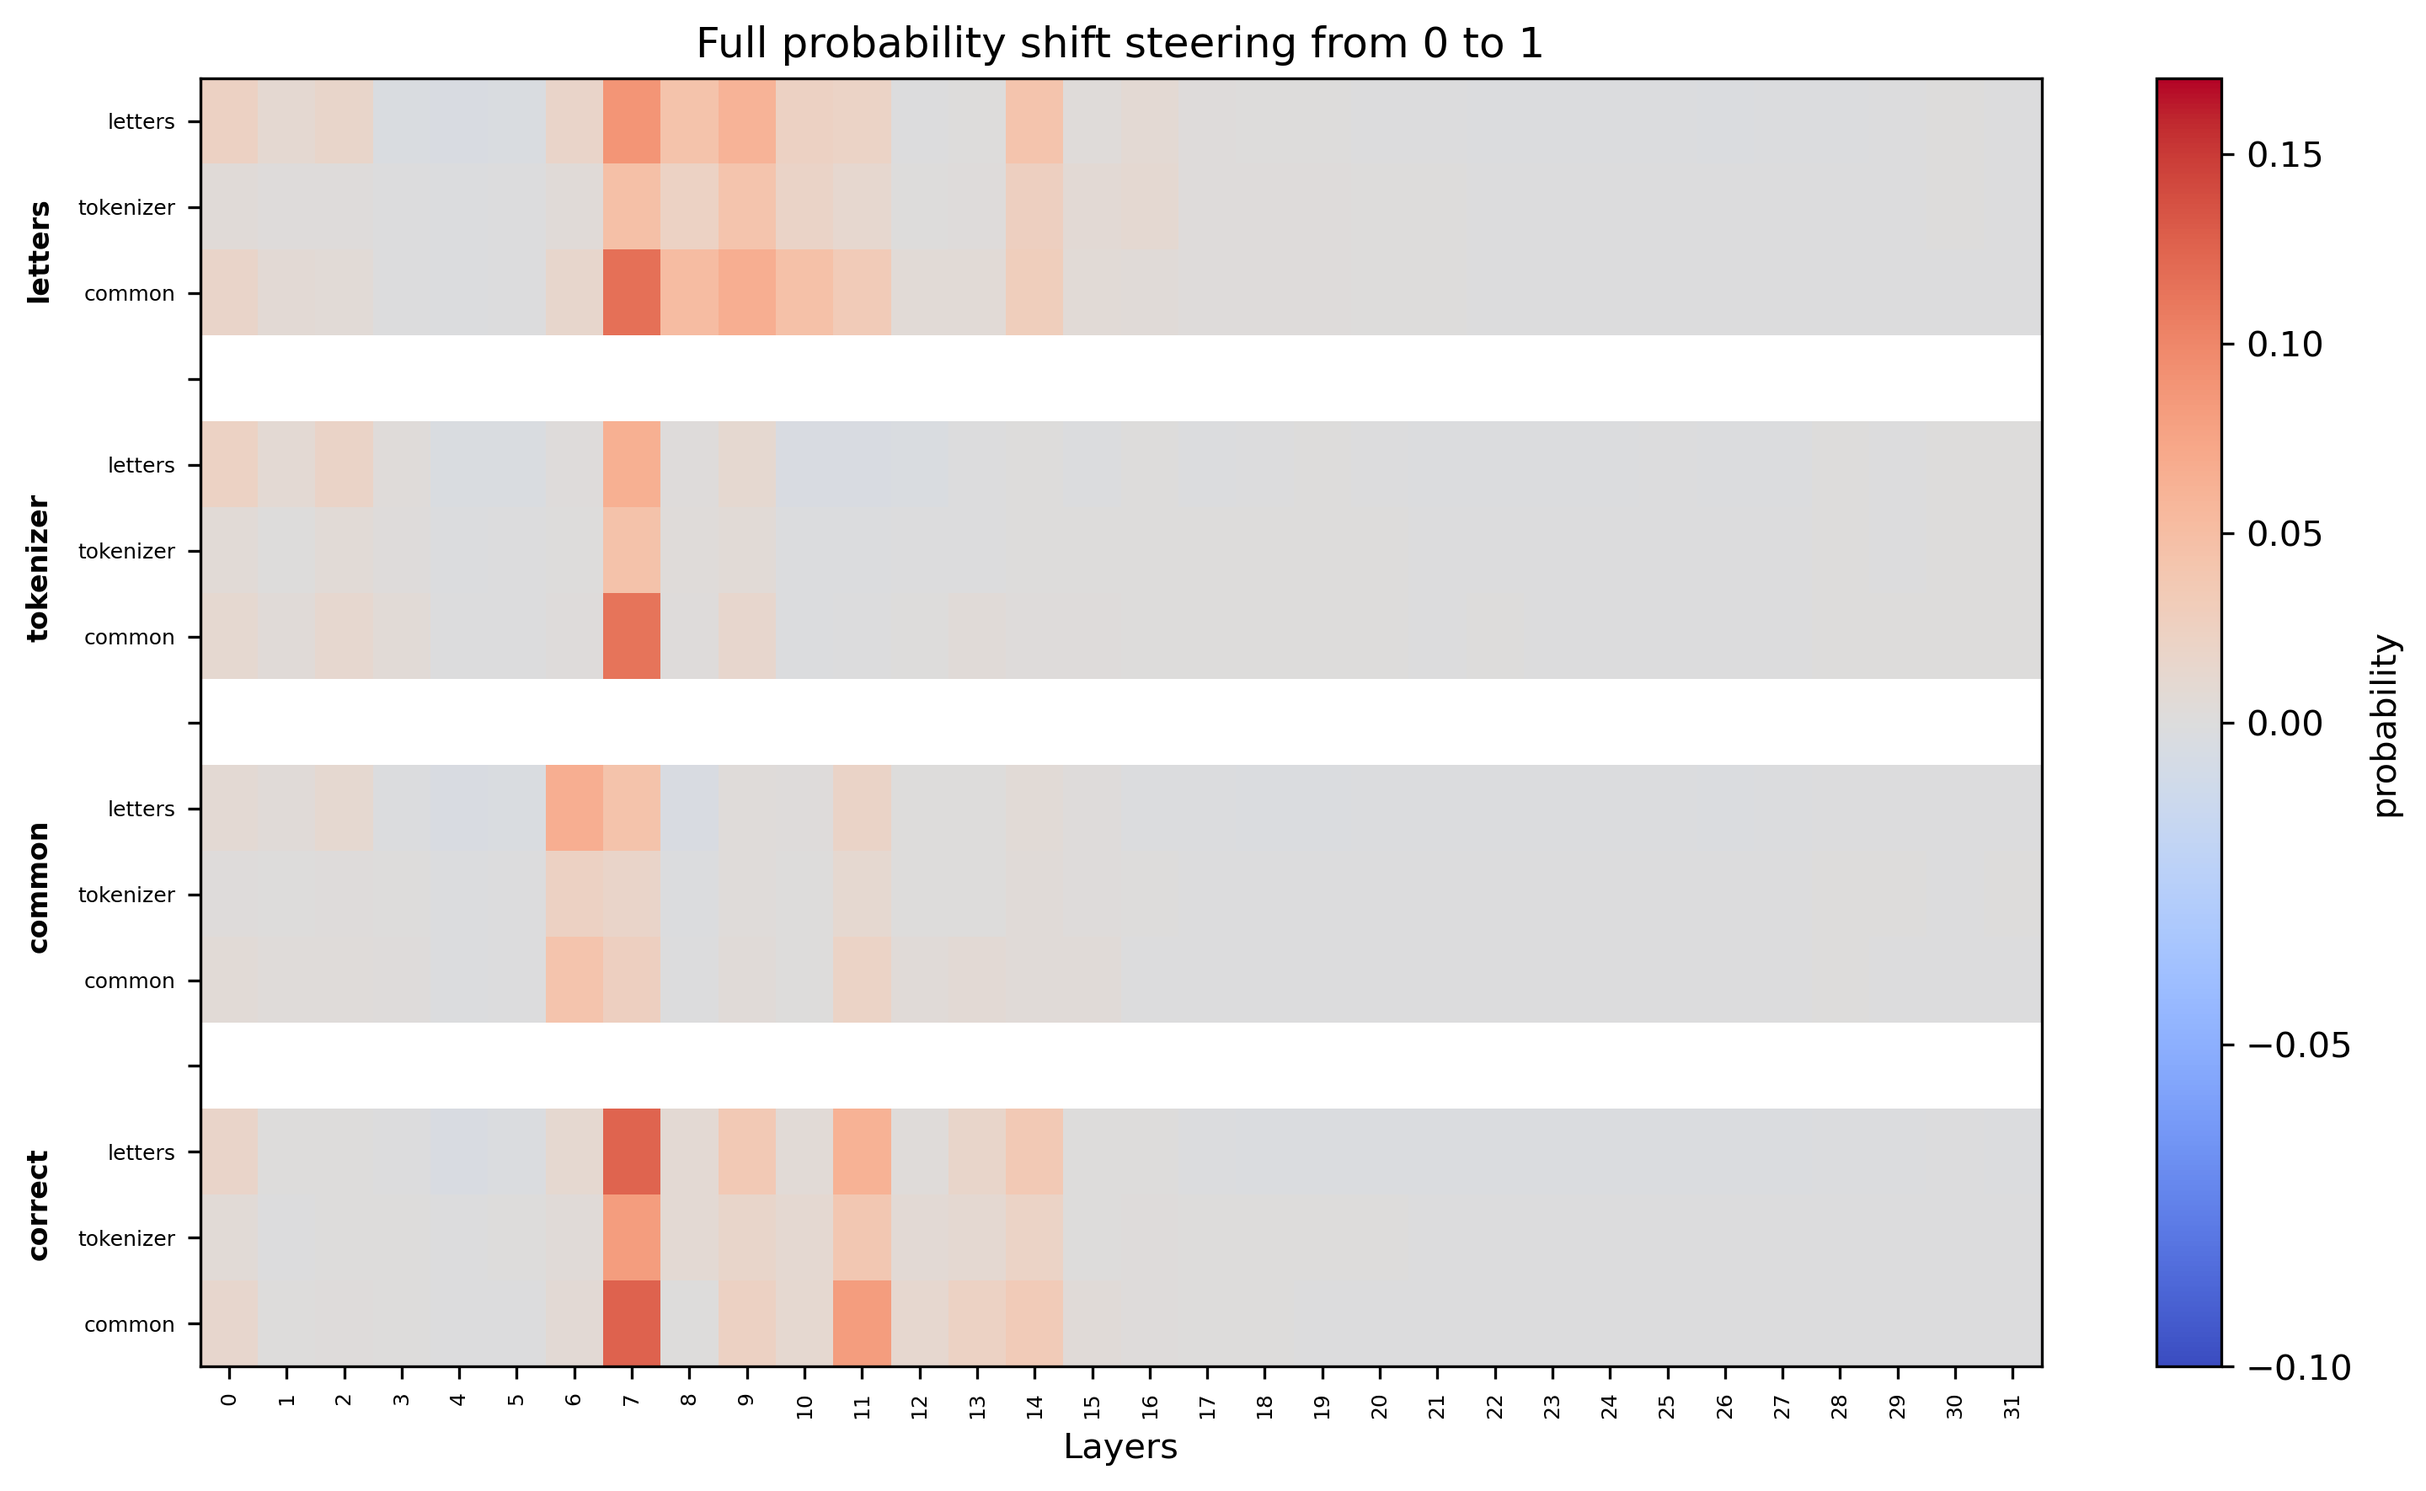
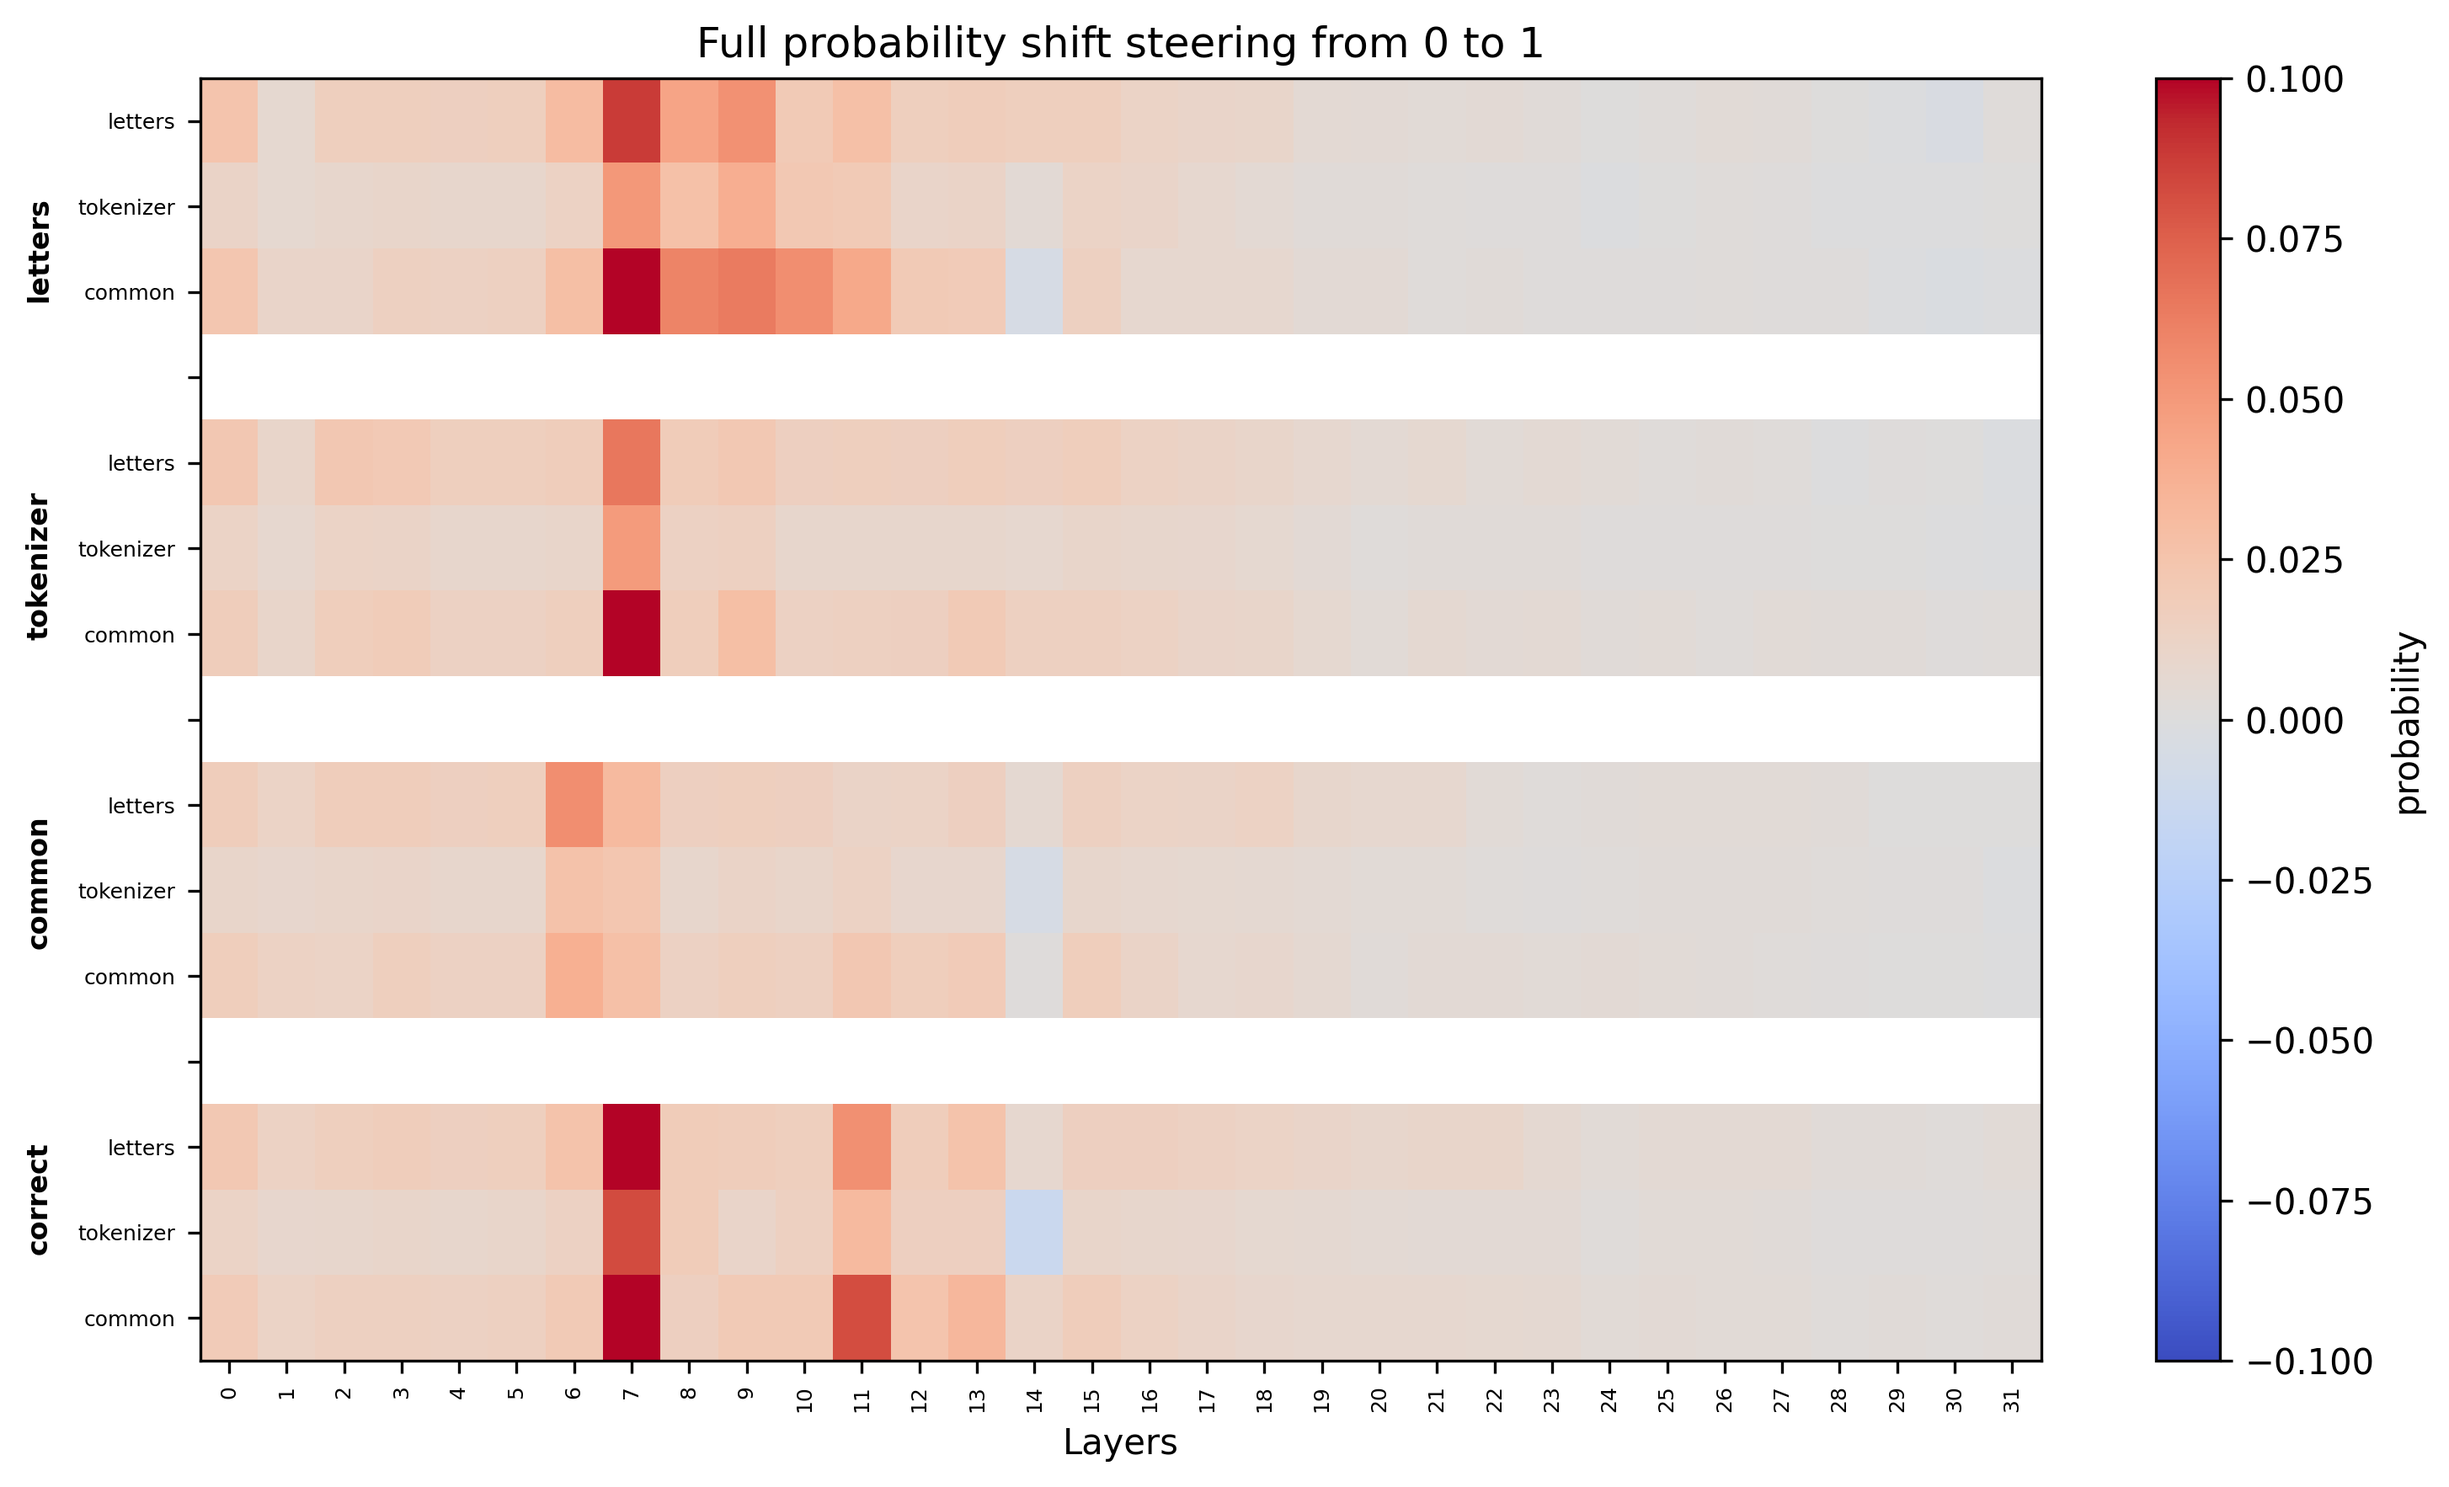
steering datasets wormsS

diff --git a/train_probe.py b/train_probe.py
@@ -174,7 +174,7 @@ def save_average_to_csv(averaged_results, id, contrastive_id, alpha, base_path="
     print(f"Saved CSV: {save_path}")
 
 
-def steer_prompts_from_file(def_path: str, use_path: str, model, tokenizer, results, resid_type: str, dataset_specifier, dataset_specifier_fullname, part="FULL", alpha=50.0):
+def steer_prompts_from_file_new(def_path: str, use_path: str, model, tokenizer, results, resid_type: str, dataset_specifier, dataset_specifier_fullname, part="FULL", alpha=50.0):
 
     # rly stupid way of doing this but ok
     if part == "FULL":
@@ -222,6 +222,99 @@ def steer_prompts_from_file(def_path: str, use_path: str, model, tokenizer, resu
                     contrastive_token=contrastive_token,
                     alpha=alpha,
                     resid_type=resid_type,
+                    k=20,
+                )
+
+                key = (id, contrastive_id)
+
+                for layer, vals in gap_differences.items():
+                    for key_metric in vals:
+                        averages[key][layer][key_metric].append(vals[key_metric])
+
+
+    # Compute final averages 
+    final_averages = {}
+
+    for key, layer_dict in averages.items():
+        final_averages[key] = {}
+
+        for layer, vals in layer_dict.items():
+            final_averages[key][layer] = {
+                metric: np.mean(values)
+                for metric, values in vals.items()
+            }
+
+    # Save plots + CSV
+    for (id, contrastive_id) in final_averages.keys():
+        plot_average_gap(
+            final_averages,
+            id,
+            contrastive_id,
+            alpha=alpha,
+            use_logprob=True,
+            base_path=f"figures/{dataset_specifier}_{alpha}",
+            dataset_specifier_fullname=dataset_specifier_fullname
+        )
+        plot_average_gap(
+            final_averages,
+            id,
+            contrastive_id,
+            alpha=alpha,
+            use_logprob=False,
+            base_path=f"figures/{dataset_specifier}_{alpha}",
+            dataset_specifier_fullname=dataset_specifier_fullname
+        )
+        save_average_to_csv(
+            final_averages,
+            id,
+            contrastive_id,
+            alpha=alpha,
+            base_path=f"figures/{dataset_specifier}_{alpha}"
+        )
+
+    return final_averages
+
+
+
+def steer_prompts_from_file_old(path: str, model, tokenizer, results, dataset_specifier, dataset_specifier_fullname, alpha=50.0):
+    data = read_steering_dataset(path)
+    ids = [0, 1, 2]
+
+    averages = defaultdict(lambda: defaultdict(lambda: {
+        "prob_gap": [],
+        "prob_contr": [],
+        "prob_true": [],
+        "log_gap": [],
+        "log_contr": [],
+        "log_true": [],
+    }))
+
+    for id in ids:
+        data_per_id = [d for d in data if int(d["ID"]) == id]
+
+        for prompt_dic in data_per_id:
+            prompt_prefix = prompt_dic["prefix"]
+            prompt_suffix = prompt_dic["suffix"]
+            prompt = get_prompt(prompt_prefix, prompt_suffix)
+
+            for contrastive_id in ids:
+                if contrastive_id == id:
+                    continue
+
+                token = prompt_dic[str(id)]
+                contrastive_token = prompt_dic[str(contrastive_id)]
+
+                _, gap_differences = compare_steering_with_gap(
+                    model=model,
+                    tokenizer=tokenizer,
+                    results=results,
+                    prompt=prompt,
+                    id=id,
+                    contrastive_id=contrastive_id,
+                    token=token,
+                    contrastive_token=contrastive_token,
+                    alpha=alpha,
+                    resid_type="mlp_out", # HERE YOU CHOOSE THE LOCATION TO STEER IN
                     k=20,
                 )
 
@@ -464,22 +557,26 @@ def main():
     # steering_path = "training_data/steering_data_300_realistic.txt"
     # steering_path = "training_data/steering_data_300_final.txt"
 
-    # steering_path_def = f"datasets/final/{identifier_mode}/steering_definition.jsonl"
-    # steering_path_use = f"datasets/final/{identifier_mode}/steering_usage.jsonl"
+    # IF USING NEW DATA SET STEERING_PATH TO NONE!!!!!!!!!!!!!!!!!!
+    steering_path = None
+    steering_path_def = f"datasets/final/{identifier_mode}/steering_definition.jsonl"
+    steering_path_use = f"datasets/final/{identifier_mode}/steering_usage.jsonl"
 
-    # for mode in ["letters", "common", "tokenizer"]:
+
+    for mode in ["letters", "common", "tokenizer"]:
             
-    #     steering_path_def = f"datasets/final/{mode}/steering_definition.jsonl"
-    #     steering_path_use = f"datasets/final/{mode}/steering_usage.jsonl"
+        steering_path_def = f"datasets/final/{mode}/steering_definition.jsonl"
+        steering_path_use = f"datasets/final/{mode}/steering_usage.jsonl"
 
-    #     dataset_specifier = f"{identifier_mode}_probe_{mode}_steering"
-    #     dataset_specifier_fullname = dataset_specifier
+        dataset_specifier = f"{identifier_mode}_probe_{mode}_steering"
+        dataset_specifier_fullname = dataset_specifier
 
-    #     alphas = [100.0]
-    #     for alpha in alphas:
-    #         steer_prompts_from_file(steering_path_def, steering_path_use, model, tokenizer, results, dataset_specifier, dataset_specifier_fullname, alpha=alpha)
-
-
+        alphas = [100.0]
+        for alpha in alphas:
+            if steering_path is not None:
+                steer_prompts_from_file_old(steering_path, model, tokenizer, results, dataset_specifier, dataset_specifier_fullname, alpha=alpha)
+            else:
+                steer_prompts_from_file_new(steering_path_def, steering_path_use, model, tokenizer, results, dataset_specifier, dataset_specifier_fullname, alpha=alpha)
 
 if __name__ == "__main__":
     main()

diff --git a/plotting.py b/plotting.py
@@ -215,7 +215,7 @@ def plot_grouped_heatmap(
     # ---- plot ----
     fig, ax = plt.subplots(figsize=figsize)
 
-    norm = TwoSlopeNorm(vmin=-0.1, vcenter=0.0, vmax=0.17)
+    norm = TwoSlopeNorm(vmin=-0.1, vcenter=0.0, vmax=0.10)
 
     im = ax.imshow(
         new_matrix,
@@ -292,5 +292,6 @@ for id in range(3):
         file_paths = [path1, path2, path3, path4, path5, path6, path7, path8, path9, path10, path11, path12]
         save_path = f"figures/steering_heatmaps/{base}.png"
         metric = "prob_contr"
+        metric = "prob_gap"
 
         plot_grouped_heatmap(file_paths, id, contr_id, metric=metric, group_size=3, save_path=save_path)
